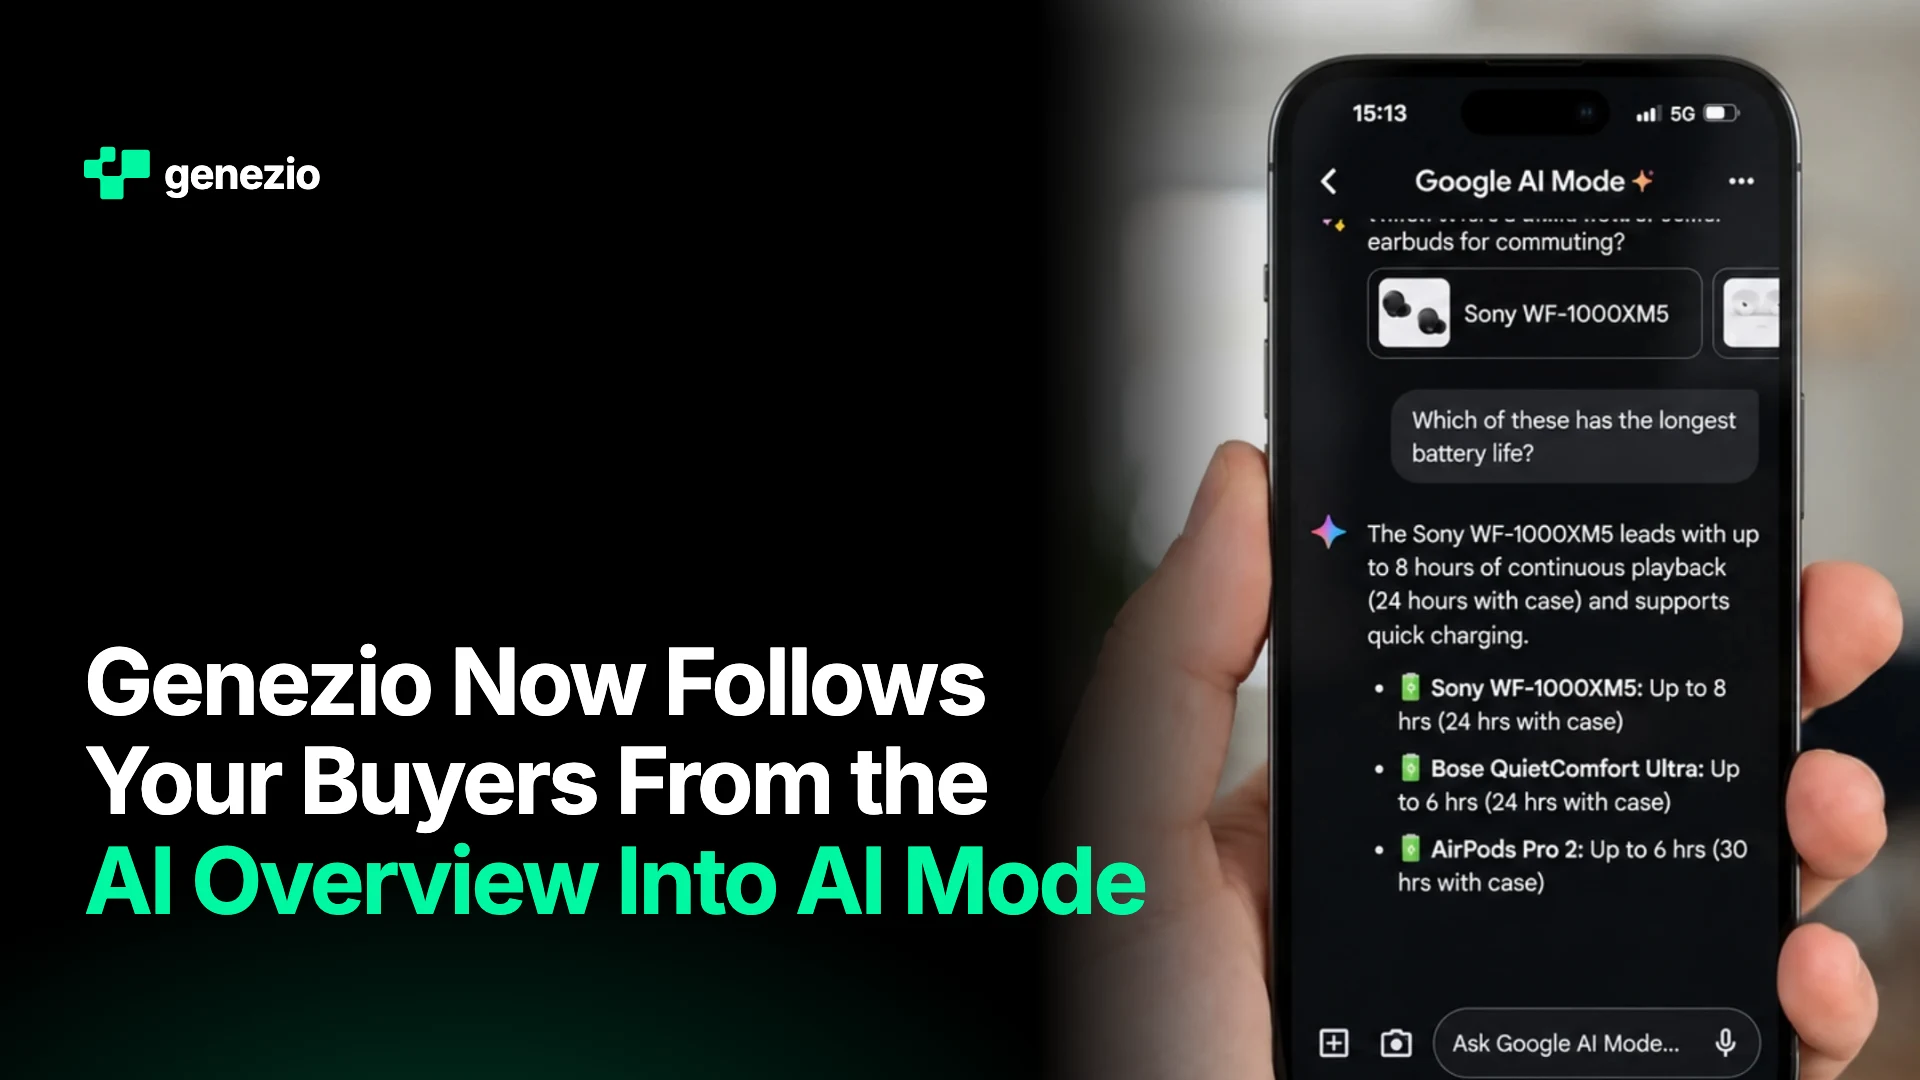
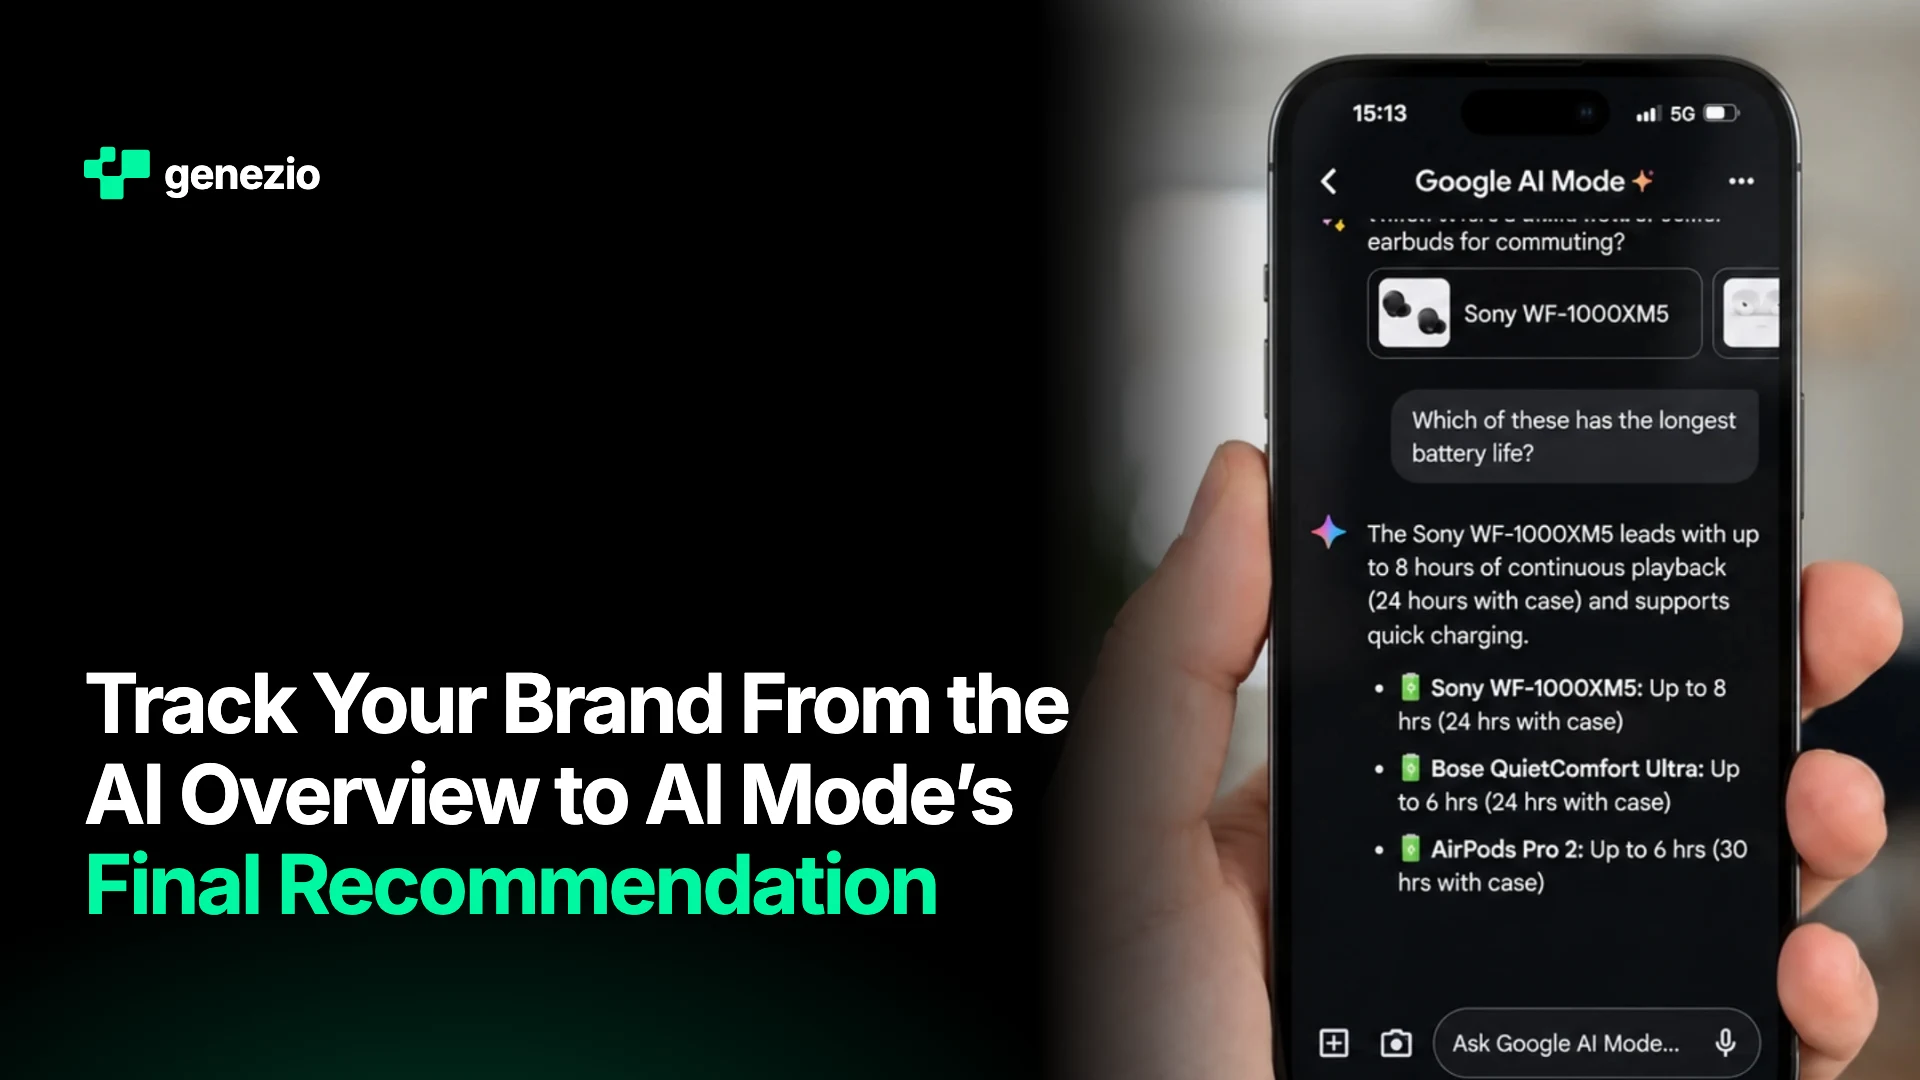
feat(blog): retitle AI Mode post to final-recommendation framing

Changed region(s): [[0.0312, 0.5806, 0.5938, 0.8556]]

diff --git a/new-landing/src/posts/google-ai-overview-ai-mode-follow-ups.md b/new-landing/src/posts/google-ai-overview-ai-mode-follow-ups.md
@@ -1,5 +1,5 @@
 ---
-title: "Genezio now follows your buyers from the AI Overview into AI Mode"
+title: "Track your brand from the AI Overview to AI Mode’s final recommendation"
 metaTitle: "Google AI Overview + AI Mode: Track Follow-Up Questions"
 date: 2026-10-20
 tags:
@@ -25,7 +25,7 @@ readTime: 5
 url: /blog/google-ai-overview-ai-mode-follow-ups/
 ---
 
-![Genezio now follows your buyers from the AI Overview into AI Mode](/images/google-ai-overview-ai-mode-follow-ups.webp)
+![Track your brand from the AI Overview to AI Mode’s final recommendation](/images/google-ai-overview-ai-mode-follow-ups.webp)
 
 **Showing up in Google's AI Overview doesn't mean you win the customer.** Most brands track whether they appear in that first AI answer at the top of the page. But that is where the search starts, not where the buyer decides.
 
